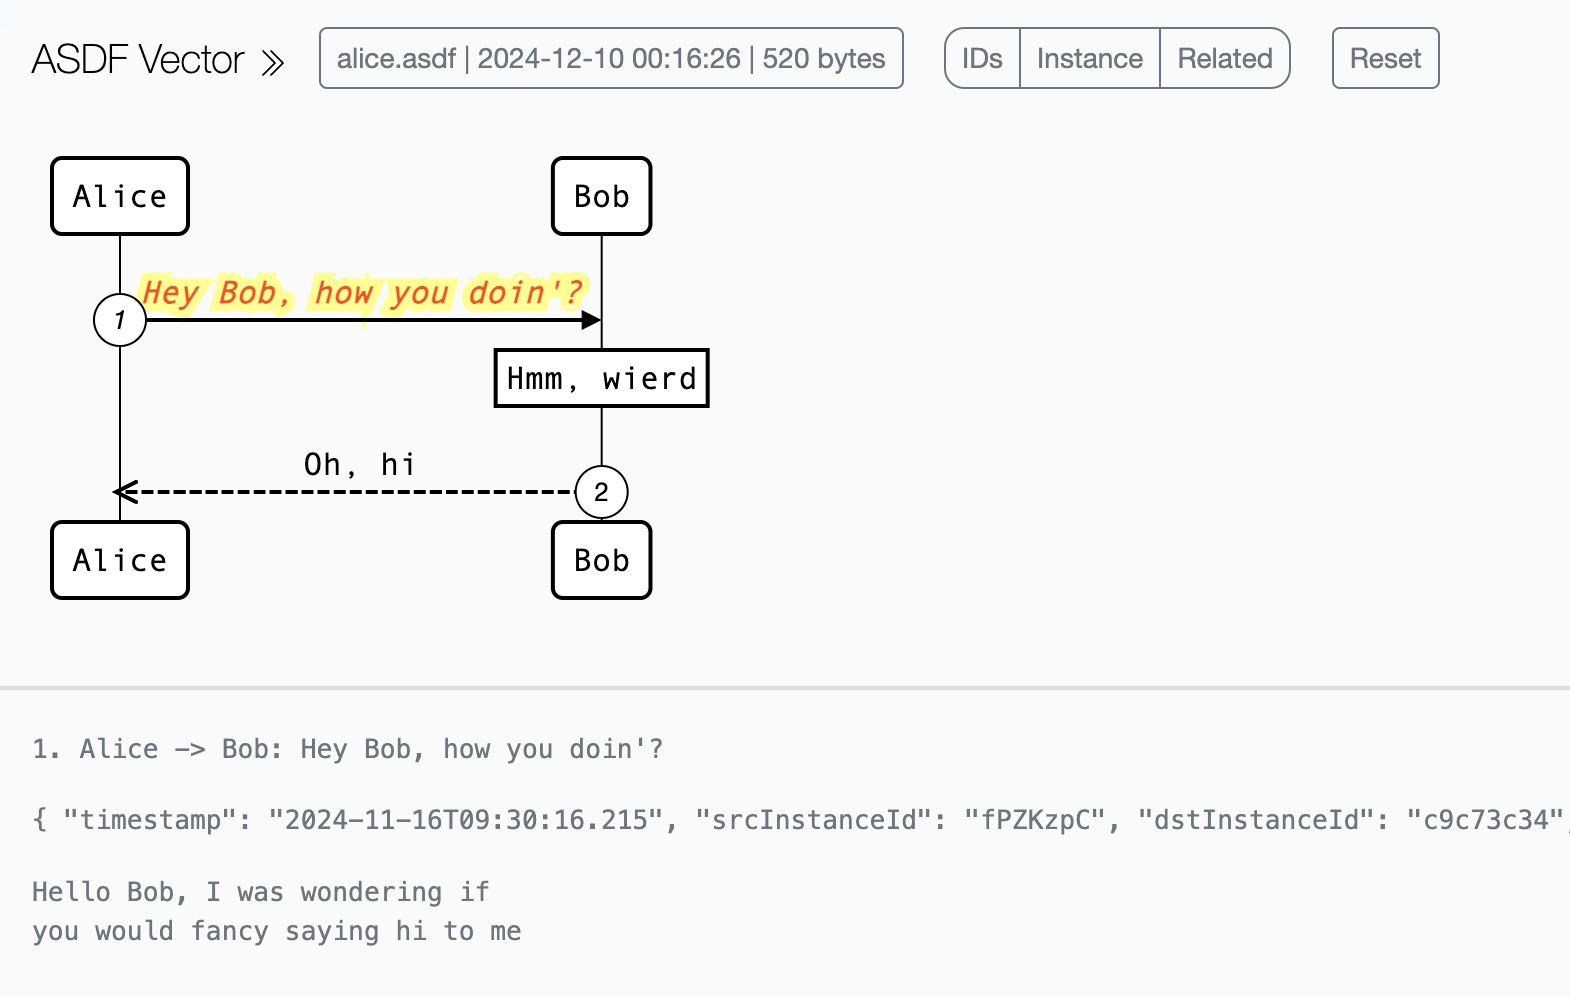
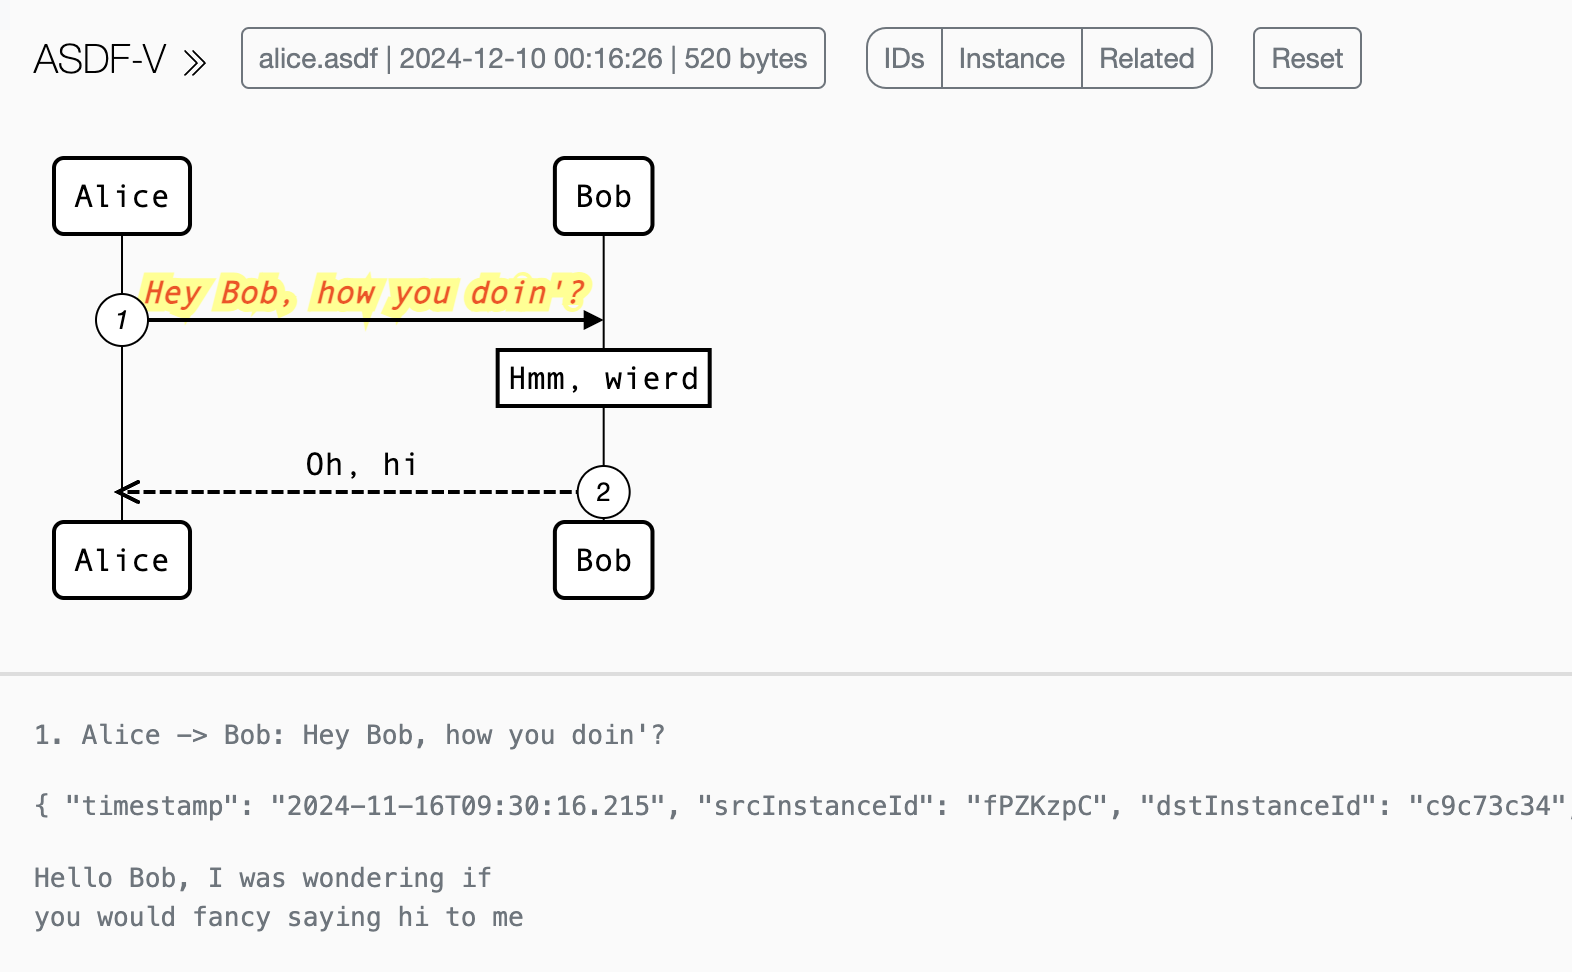
Update name

diff --git a/index.html b/index.html
@@ -2,7 +2,7 @@
 <html lang="en">
 <head>
     <meta charset="UTF-8">
-    <title>ASDF Vector</title>
+    <title>ASDF-V</title>
     <link rel="stylesheet" type="text/css" href="css/bootstrap.min.css"/>
     <link rel="stylesheet" type="text/css" href="css/asdf.css"/>
     <link rel="icon" href="img/chevron-double-right.svg">
@@ -12,7 +12,7 @@
     <nav class="navbar bg-light fixed-top p-2" data-bs-theme="light">
     <div class="container-fluid justify-content-start" id="toolbar">
 
-        <a class="navbar-brand" id="navbarBrand" href="" onclick="asdfVM.navbarBrandOnClick()">ASDF Vector
+        <a class="navbar-brand" id="navbarBrand" href="" onclick="asdfVM.navbarBrandOnClick()">ASDF-V
             <img src="img/chevron-double-right.svg">
         </a>
 
@@ -47,12 +47,12 @@
             <div id="diagram">
                 <pre>
 
-    ASDF Vector is a tool for visualizing sequence diagrams
-    in the Augmented Sequence Diagram Format (ASDF). Upload
-    an ASDF file to view and interact with it.
+    ASDF-V is an interactive vector graphics tool for visualizing
+    sequence diagrams in the Augmented Sequence Diagram Format (ASDF).
+    Upload an ASDF file to view and interact with it.
 
-    Release Notes - v1.0 (December 9, 2024)
-    ---------------------------------------
+    Release Notes - v1.0 (December 10, 2024)
+    ----------------------------------------
     • Parse and visualize ASDF input.
     • View/peek additional signal information on click/hover.
     • Hide, unhide and reorder participants as preferred.
@@ -78,7 +78,7 @@
     • Render additional info header.
 
     (c) 2024  Tamás Dezső  (asdf.hu)
-    https://github.com/xsnpdngv/asdf
+    https://github.com/xsnpdngv/ASDF-V
 
                 </pre>
 

diff --git a/js/asdf.js b/js/asdf.js
@@ -1,6 +1,6 @@
 /*
 Copyright (c) 2024 Tamás Dezső (asdf.hu)
-https://github.com/xsnpdngv/asdf
+https://github.com/xsnpdngv/ASDF-V
 
 Permission is hereby granted, free of charge, to any person obtaining a
 copy of this software and associated documentation files (the
@@ -330,7 +330,7 @@ class PersistentToggle {
 
 
 /* ====================================================================
- * ASDF Vector implements the Model-View-ViewModel (MVVM) pattern
+ * ASDF-V implements the Model-View-ViewModel (MVVM) pattern
  *
  * View:      index.html    - Structure and layout of UI
  *            asdf.css      - Appearance of UI elements

diff --git a/README.md b/README.md
@@ -1,6 +1,6 @@
-# ASDF Vector
+# ASDF-V
 
-ASDF Vector is an interactive vector graphics tool for visualizing
+ASDF-V is an interactive vector graphics tool for visualizing
 sequence diagrams in the Augmented Sequence Diagram Format (ASDF).
 
 
@@ -52,4 +52,3 @@ https://github.com/DmitryBaranovskiy/raphael
 ### `js/underscore.js`
 
 https://github.com/jashkenas/underscore
-
